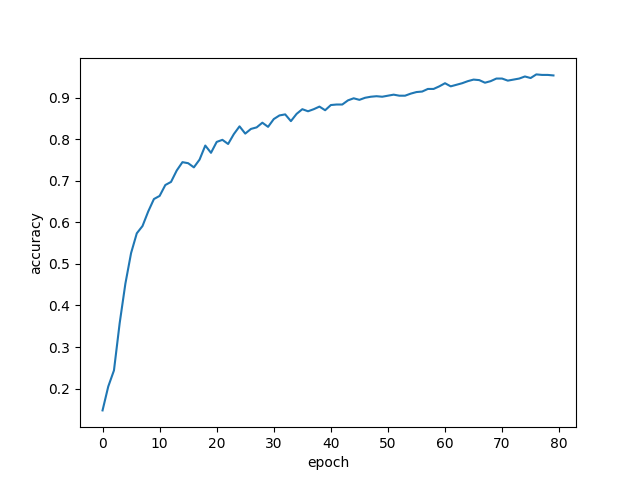
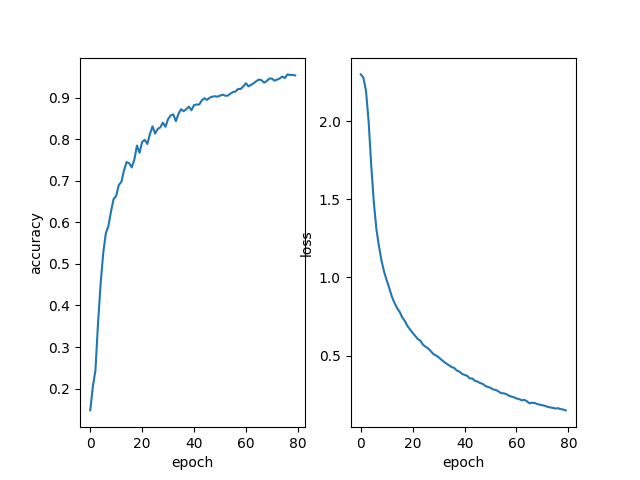
Show side by side history graphs

diff --git a/code/network.py b/code/network.py
@@ -44,11 +44,15 @@ import pydot_ng as pydot
 import matplotlib
 matplotlib.use('Agg')
 import matplotlib.pyplot as plt
+from matplotlib.pyplot import figure
 x = [i for i in range(len(fit.history['acc']))]
-#sns.relplot(x, fit.history['acc'])
+plt.grid(True)
+plt.subplot(1, 2, 1)
 plt.plot(x, fit.history['acc'])
-plt.plot(x, fit.history['loss'])
 plt.xlabel('epoch')
 plt.ylabel('accuracy')
-plt.grid(True)
+plt.subplot(1, 2, 2)
+plt.plot(x, fit.history['loss'])
+plt.xlabel('epoch')
+plt.ylabel('loss')
 plt.savefig('history.png')
